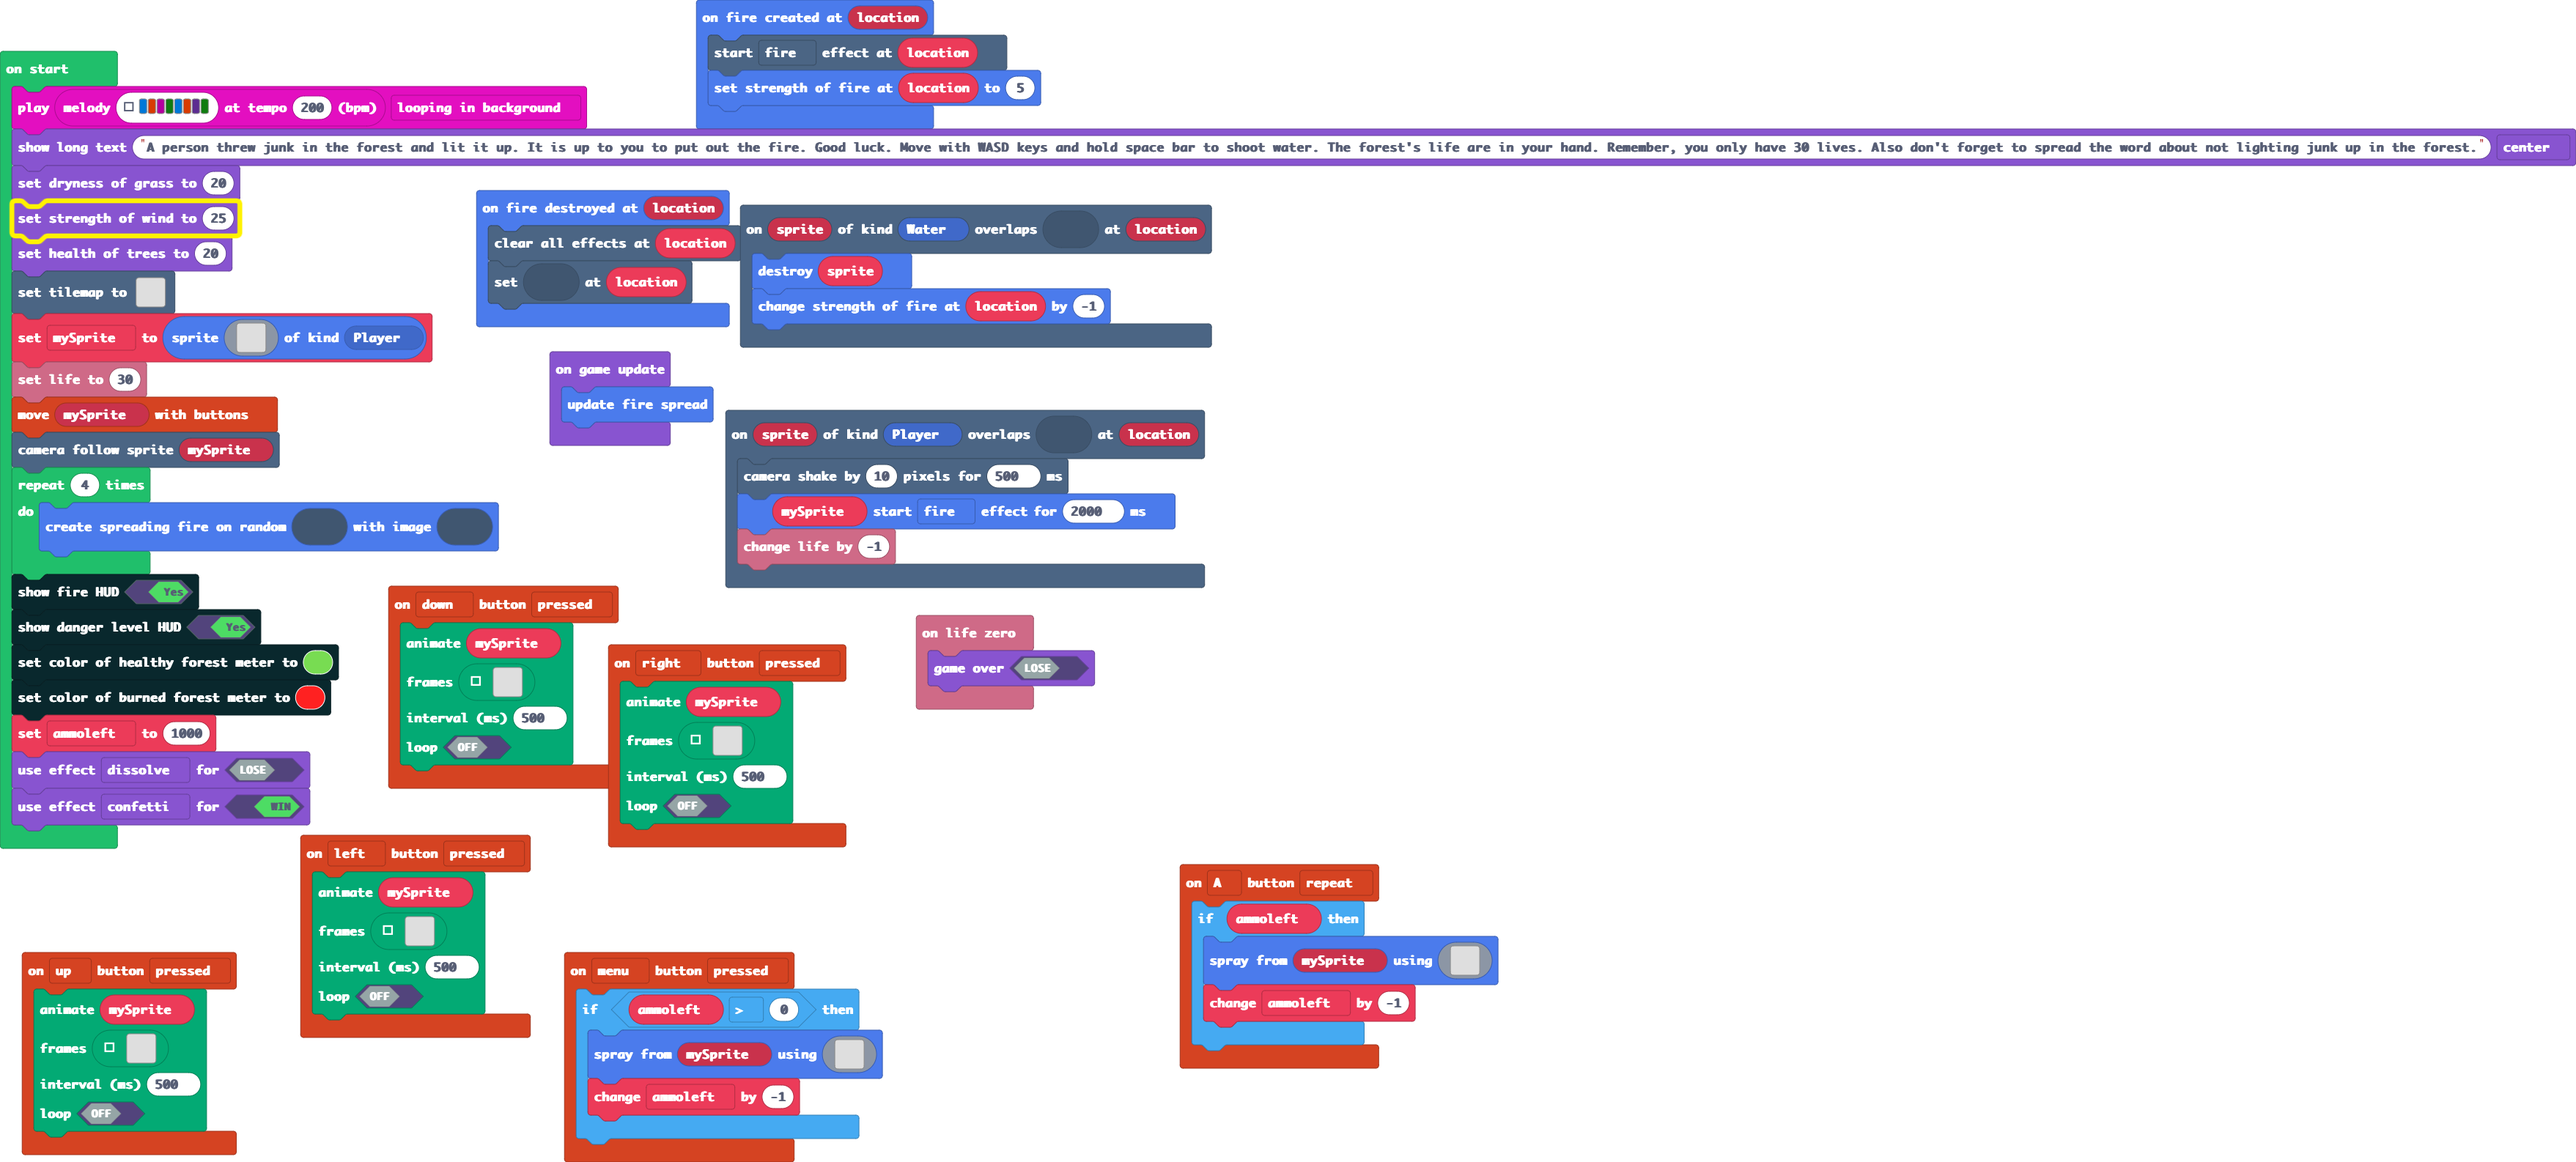
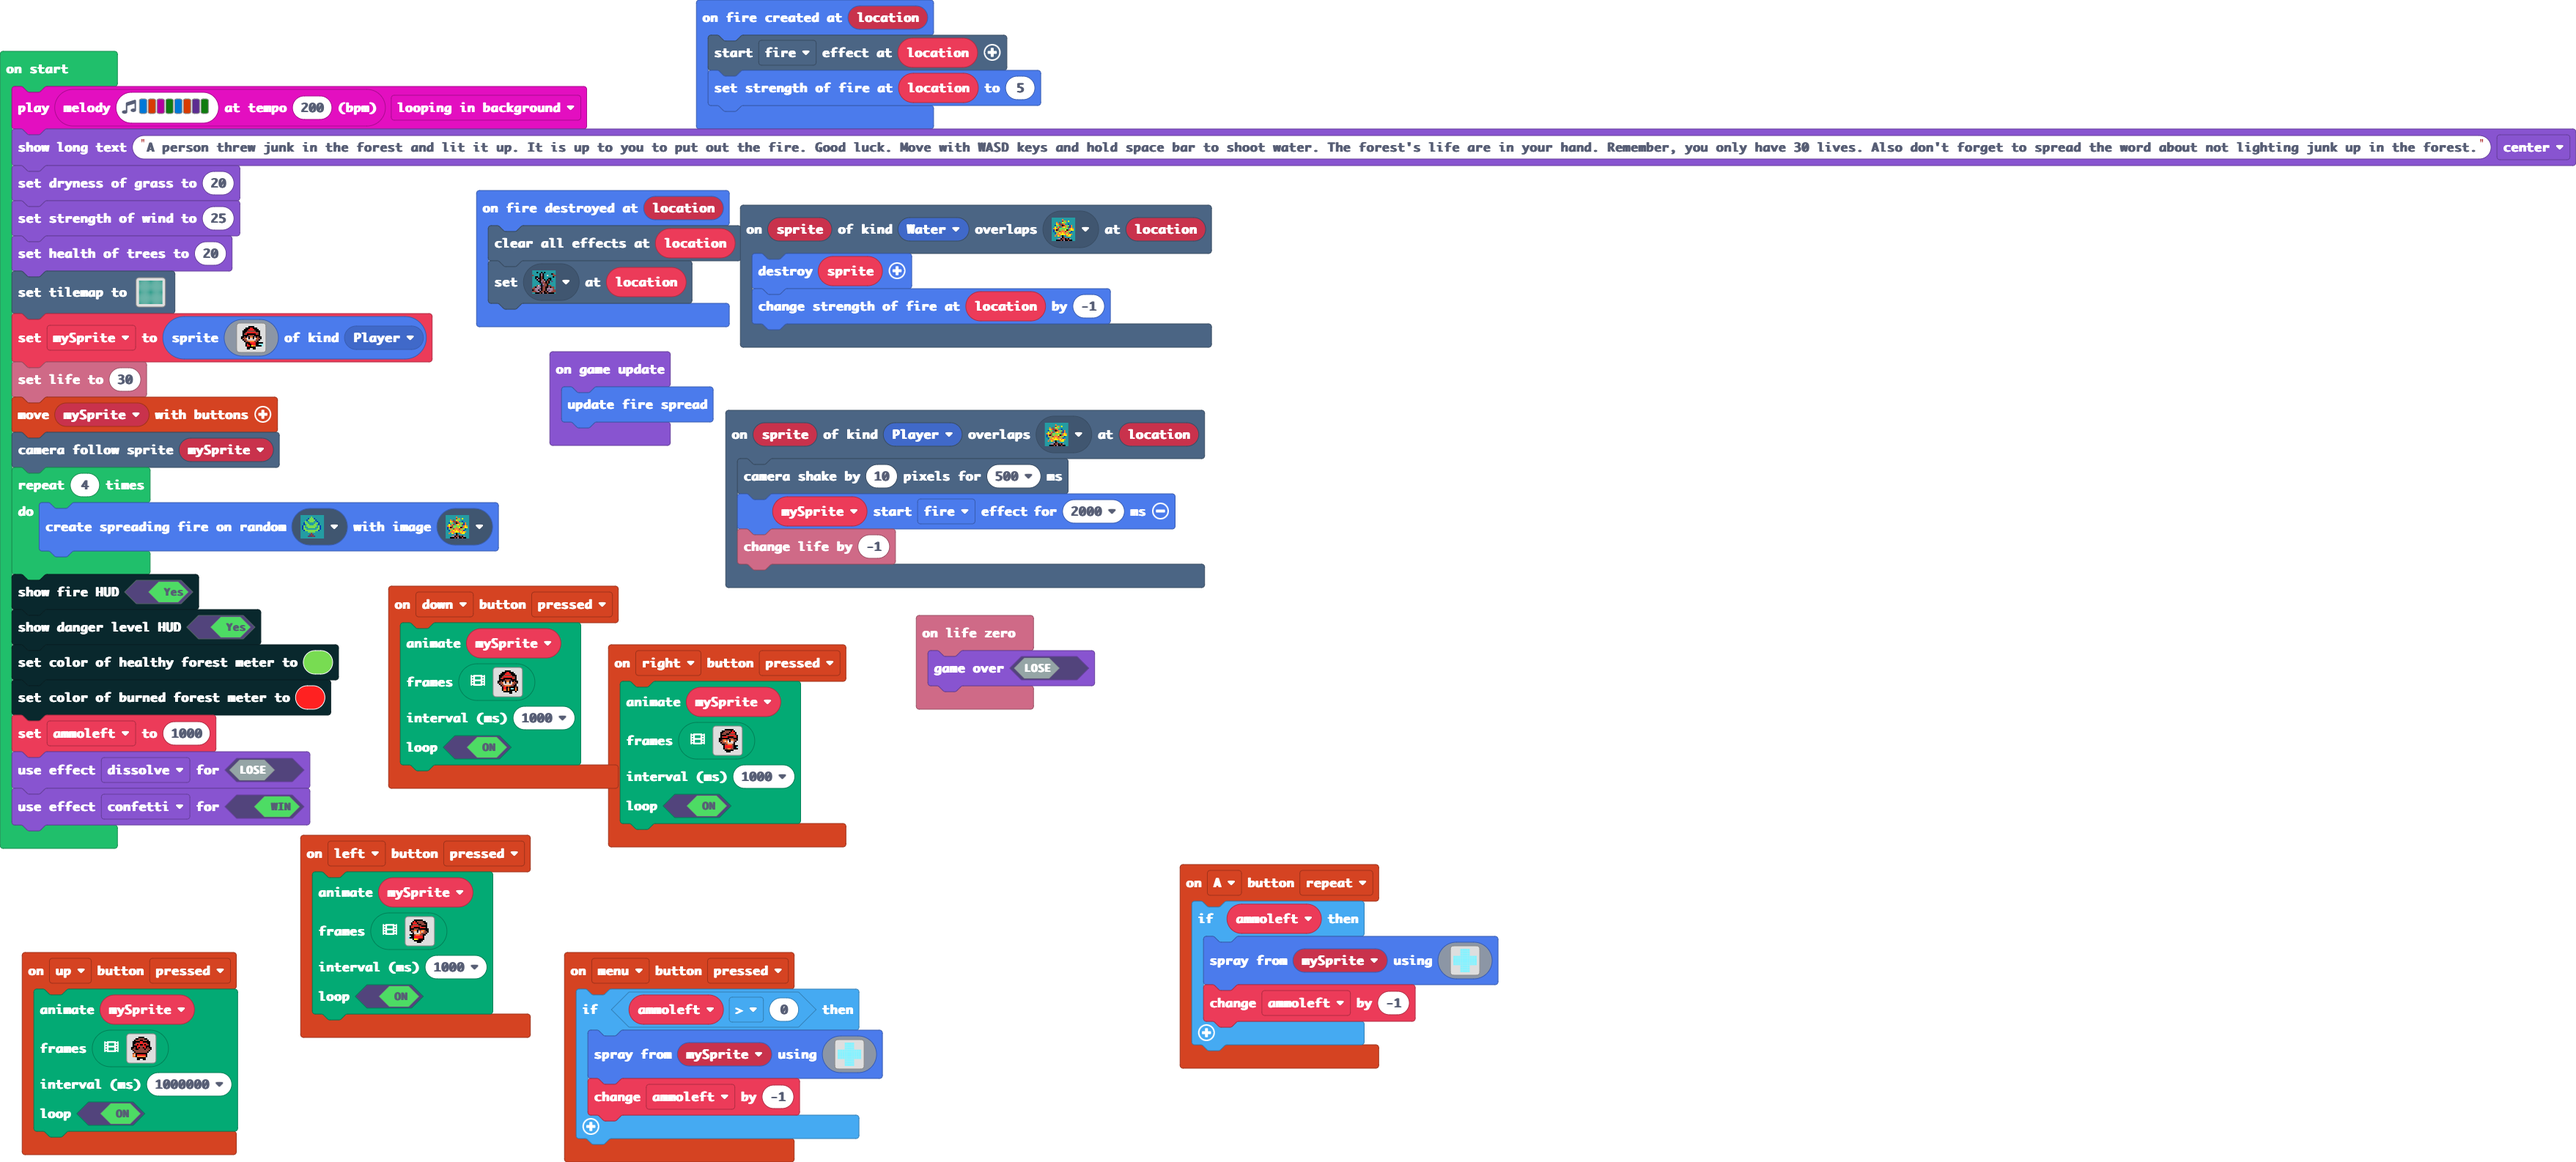
Update main.blocks, main.ts

diff --git a/main.ts b/main.ts
@@ -73,8 +73,8 @@ controller.up.onEvent(ControllerButtonEvent.Pressed, function () {
         . . . . f f f f f f f f . . . . 
         . . . . . . . . . f f f . . . . 
         `],
-    500,
-    false
+    1000000,
+    true
     )
 })
 sprites.on_fire_created(function (location) {
@@ -175,8 +175,8 @@ controller.left.onEvent(ControllerButtonEvent.Pressed, function () {
         . . . . f f f f f f . . . . . . 
         . . . . . . f f f . . . . . . . 
         `],
-    500,
-    false
+    1000,
+    true
     )
 })
 sprites.on_fire_destroyed(function (location) {
@@ -272,8 +272,8 @@ controller.right.onEvent(ControllerButtonEvent.Pressed, function () {
         . . . . . . f f f f f f . . . . 
         . . . . . . . f f f . . . . . . 
         `],
-    500,
-    false
+    1000,
+    true
     )
 })
 scene.onOverlapTile(SpriteKind.Water, assets.tile`tree fire`, function (sprite, location) {
@@ -369,8 +369,8 @@ controller.down.onEvent(ControllerButtonEvent.Pressed, function () {
         . . . . . f f f f f f . . f . . 
         . . . . . f f . . f f . . . . . 
         `],
-    500,
-    false
+    1000,
+    true
     )
 })
 controller.menu.onEvent(ControllerButtonEvent.Pressed, function () {
